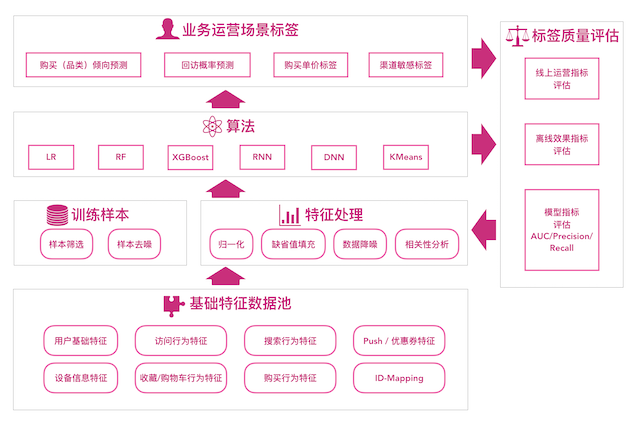
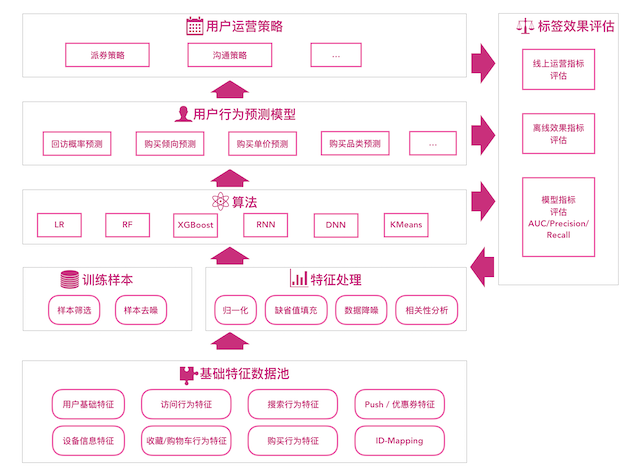
update post

Changed region(s): [[0.0312, 0.0306, 0.9688, 0.7341], [0.0625, 0.7647, 0.7188, 0.9788], [0.0312, 0.0306, 0.0625, 0.0612]]

diff --git a/_posts/2018-04-07-user-profile-tagging-system.md b/_posts/2018-04-07-user-profile-tagging-system.md
@@ -114,10 +114,7 @@ tags: [user-profile]
 
 ![Architecture Overview 3.0](https://raw.githubusercontent.com/Neway6655/neway6655.github.com/master/images/user-profile-system/user_profile_model_overview.png)
 
-* 用户特征池：为标签模型构造用户全方位的特征数据，包括用户基础信息特征，用户设备信息特征，用户访问/搜索/购买等行为特征，用户品牌/品类行为特征等。
-* 标签模型：基于Spark ML的机器学习模型和Tensorflow的深度模型，从业务运营场景抽象出用户标签需求建立模型。
-* 智选标签：根据运营场景需求，选择合适的模型构造用户标签。
-
-标签建模的整体工作流如下：
-
-![Architecture Overview 3.0](https://raw.githubusercontent.com/Neway6655/neway6655.github.com/master/images/user-profile-system/model_tagging_workflow.png)
+* 用户特征池：为标签模型构造用户全方位的特征数据，包括用户基础信息特征，用户设备信息特征，用户访问/搜索/购买等行为特征，以及用户品牌/品类行为特征等。
+* 用户行为预测模型：基于Spark ML的机器学习模型和Tensorflow的深度学习模型，构建用户基础行为预测模型。
+* 用户运营策略：运营策略的目标考虑因素比较多，现阶段主要以人工+模型的方式制定运营策略。
+* 效果评估：包括模型层面的评估指标，以及模型应用场景下的业务指标，离线验证模型的有效性，再结合运营策略通过线上ABTest进行验证最终运营效果。
